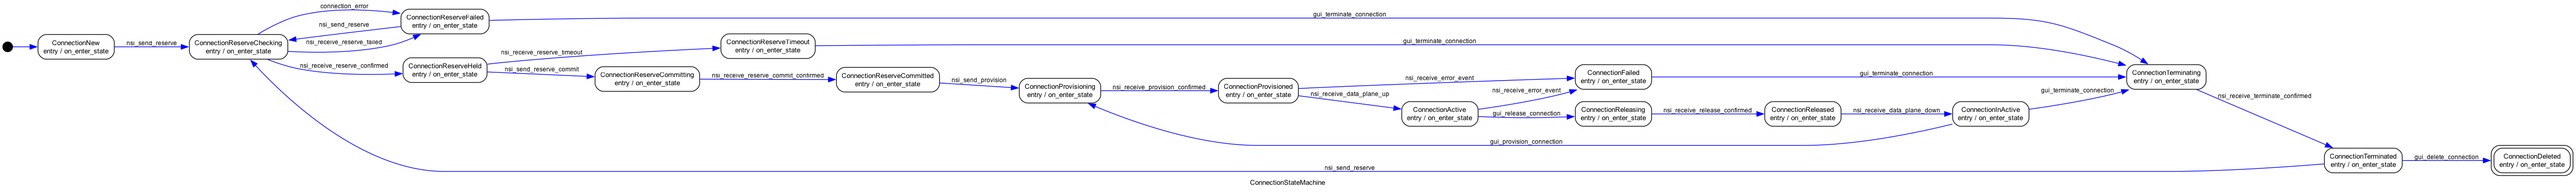
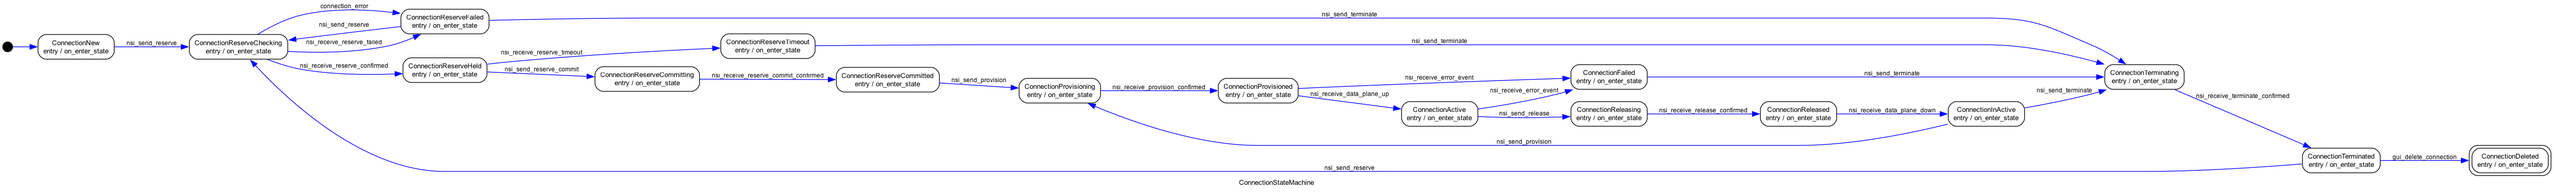
cleanup connection statemachine

diff --git a/aura/fsm.py b/aura/fsm.py
@@ -47,7 +47,6 @@ class ConnectionStateMachine(AuraStateMachine):
     """
 
     ConnectionNew = State("ConnectionNew", "CONNECTION_NEW", initial=True)
-    # ConnectionModify = State("ConnectionModify", "CONNECTION_MODIFY")
     ConnectionProvisioned = State("ConnectionProvisioned", "CONNECTION_PROVISIONED")
     ConnectionReleased = State("ConnectionReleased", "CONNECTION_RELEASED")
     ConnectionActive = State("ConnectionActive", "CONNECTION_ACTIVE")
@@ -92,38 +91,28 @@ class ConnectionStateMachine(AuraStateMachine):
     nsi_receive_reserve_timeout = ConnectionReserveHeld.to(ConnectionReserveTimeout)
     nsi_send_reserve_commit = ConnectionReserveHeld.to(ConnectionReserveCommitting)
     nsi_receive_reserve_commit_confirmed = ConnectionReserveCommitting.to(ConnectionReserveCommitted)
-    nsi_send_provision = ConnectionReserveCommitted.to(ConnectionProvisioning)
+    nsi_send_provision = (
+        ConnectionInActive.to(ConnectionProvisioning)
+        | ConnectionReserveCommitted.to(ConnectionProvisioning)
+    )
     nsi_receive_provision_confirmed = ConnectionProvisioning.to(ConnectionProvisioned)
+    nsi_send_release = ConnectionActive.to(ConnectionReleasing)
     nsi_receive_release_confirmed = ConnectionReleasing.to(ConnectionReleased)
     nsi_receive_data_plane_up = ConnectionProvisioned.to(ConnectionActive)
     nsi_receive_data_plane_down = ConnectionReleased.to(ConnectionInActive)
-    gui_delete_connection = ConnectionTerminated.to(ConnectionDeleted)
     nsi_receive_error_event = (
         ConnectionActive.to(ConnectionFailed)
         | ConnectionProvisioned.to(ConnectionFailed)
     )
-    gui_release_connection = ConnectionActive.to(ConnectionReleasing)
-    gui_provision_connection = ConnectionInActive.to(ConnectionProvisioning)
-    gui_terminate_connection = (
+    nsi_send_terminate = (
         ConnectionReserveTimeout.to(ConnectionTerminating)
         | ConnectionInActive.to(ConnectionTerminating)
         | ConnectionFailed.to(ConnectionTerminating)
         | ConnectionReserveFailed.to(ConnectionTerminating)
     )
     nsi_receive_terminate_confirmed = ConnectionTerminating.to(ConnectionTerminated)
+    gui_delete_connection = ConnectionTerminated.to(ConnectionDeleted)
     # fmt: on
-
-    # Cannot add job as part of transition because it is possible (but not likely) that the state is not stored before
-    # the job wants to make the following transition and will fail
-    #
-    # def on_nsi_send_reserve(self):
-    #     scheduler.add_job(nsi_send_reserve_job, args=[self.model.id])
-    #
-    # def on_nsi_send_reserve_commit(self):
-    #     scheduler.add_job(nsi_send_reserve_commit_job, args=[self.model.id])
-    #
-    # def on_nsi_send_provision(self):
-    #     scheduler.add_job(nsi_send_provision_job, args=[self.model.id])
 
 
 if __name__ == "__main__":

diff --git a/aura/frontend/reservations.py b/aura/frontend/reservations.py
@@ -33,10 +33,10 @@ from aura.db import Session
 from aura.frontend.util import app_page, button_with_modal
 from aura.fsm import ConnectionStateMachine
 from aura.job import (
-    gui_release_connection_job,
-    gui_terminate_connection_job,
     nsi_send_provision_job,
+    nsi_send_release_job,
     nsi_send_reserve_job,
+    nsi_send_terminate_job,
     scheduler,
 )
 from aura.model import STP, Bandwidth, Log, Reservation, Vlan
@@ -341,8 +341,8 @@ async def reservation_terminate(id: int) -> list[AnyComponent]:
         with Session.begin() as session:
             reservation = session.query(Reservation).filter(Reservation.id == id).one()
             csm = ConnectionStateMachine(reservation)
-            csm.gui_terminate_connection()
-        scheduler.add_job(gui_terminate_connection_job, args=[id])
+            csm.nsi_send_terminate()
+        scheduler.add_job(nsi_send_terminate_job, args=[id])
         return [
             c.FireEvent(event=PageEvent(name="modal-terminate-reservation", clear=True)),
             c.FireEvent(event=GoToEvent(url=f"/reservations/{id}/log")),
@@ -358,8 +358,8 @@ async def reservation_release(id: int) -> list[AnyComponent]:
         with Session.begin() as session:
             reservation = session.query(Reservation).filter(Reservation.id == id).one()
             csm = ConnectionStateMachine(reservation)
-            csm.gui_release_connection()
-        scheduler.add_job(gui_release_connection_job, args=[id])
+            csm.nsi_send_release()
+        scheduler.add_job(nsi_send_release_job, args=[id])
         return [
             c.FireEvent(event=PageEvent(name="modal-release-reservation", clear=True)),
             c.FireEvent(event=GoToEvent(url=f"/reservations/{id}/log")),
@@ -374,7 +374,7 @@ async def reservation_provision(id: int) -> list[AnyComponent]:
     try:
         with Session.begin() as session:
             reservation = session.query(Reservation).filter(Reservation.id == id).one()
-            ConnectionStateMachine(reservation).gui_provision_connection()
+            ConnectionStateMachine(reservation).nsi_send_provision()
         scheduler.add_job(nsi_send_provision_job, args=[id])
         return [
             c.FireEvent(event=PageEvent(name="modal-provision-reservation", clear=True)),

diff --git a/aura/job.py b/aura/job.py
@@ -92,13 +92,11 @@ def nsi_send_provision_job(reservation_id: int) -> None:
     retdict = nsi_send_provision(reservation)  # TODO: need error handling on failed post soap
 
 
-def gui_terminate_connection_job(reservation_id: int) -> None:
+def nsi_send_terminate_job(reservation_id: int) -> None:
     new_correlation_id_on_reservation(reservation_id)
     with Session() as session:
         reservation = session.query(Reservation).filter(Reservation.id == reservation_id).one()
     log = logger.bind(
-        module=__name__,
-        job=nsi_send_provision.__name__,
         reservationId=reservation.id,
         correlationId=str(reservation.correlationId),
         connectionId=str(reservation.connectionId),
@@ -132,7 +130,7 @@ def gui_terminate_connection_job(reservation_id: int) -> None:
 #         log.info("send reserve abort successful")
 
 
-def gui_release_connection_job(reservation_id: int) -> None:
+def nsi_send_release_job(reservation_id: int) -> None:
     new_correlation_id_on_reservation(reservation_id)
     with Session() as session:
         reservation = session.query(Reservation).filter(Reservation.id == reservation_id).one()

diff --git a/aura/frontend/nsi.py b/aura/frontend/nsi.py
@@ -36,7 +36,6 @@ async def nsi_callback(request: Request):
     """Receive and process NSI async callback."""
     from aura.db import Session
 
-    log = logger.bind(module=__name__, job=nsi_callback.__name__)
     body = nsi_util_xml_to_dict(await request.body())
     with Session.begin() as session:
         try:
@@ -52,7 +51,7 @@ async def nsi_callback(request: Request):
             else:
                 correlationId = body["Header"]["nsiHeader"]["correlationId"]
                 reservation = session.query(Reservation).filter(Reservation.correlationId == correlationId).one()
-            log = log.bind(
+            log = logger.bind(
                 reservationId=reservation.id,
                 correlationId=str(reservation.correlationId),
                 connectionId=str(reservation.connectionId),
